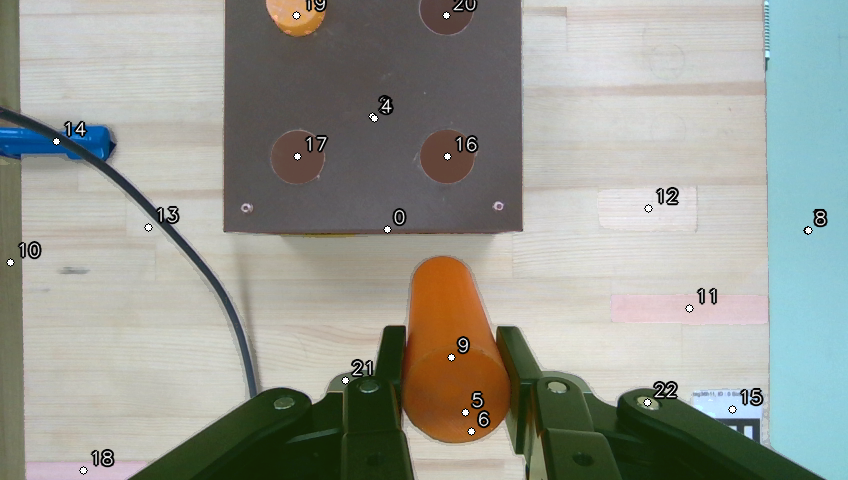
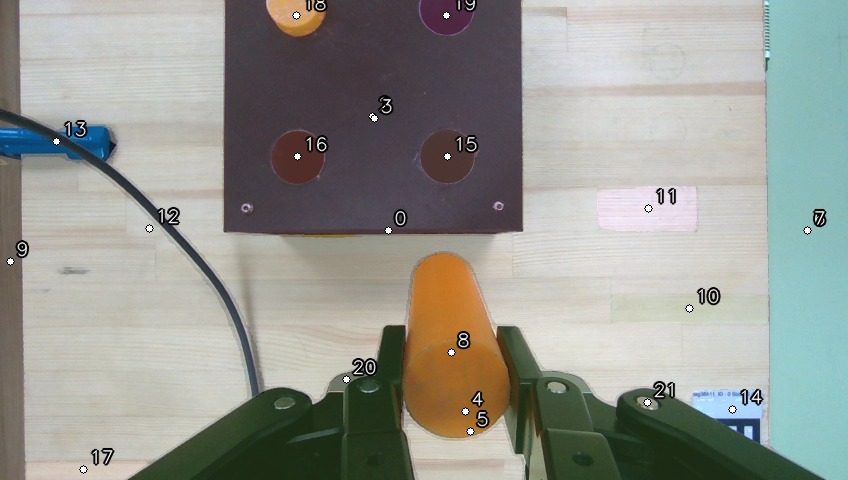
new file:   high_accuracy.json 	modified:   processed_field_image.png 	modified:   ros2_ws/src/realsense-ros 	new file:   rs_launch.py

diff --git a/rs_launch.py b/rs_launch.py
@@ -1,0 +1,157 @@
+# Copyright (c) 2018 Intel Corporation
+#
+# Licensed under the Apache License, Version 2.0 (the "License");
+# you may not use this file except in compliance with the License.
+# You may obtain a copy of the License at
+#
+#     http://www.apache.org/licenses/LICENSE-2.0
+#
+# Unless required by applicable law or agreed to in writing, software
+# distributed under the License is distributed on an "AS IS" BASIS,
+# WITHOUT WARRANTIES OR CONDITIONS OF ANY KIND, either express or implied.
+# See the License for the specific language governing permissions and
+# limitations under the License.
+
+"""Launch realsense2_camera node."""
+import os
+from launch import LaunchDescription
+from ament_index_python.packages import get_package_share_directory
+import launch_ros.actions
+from launch.actions import DeclareLaunchArgument
+from launch.substitutions import LaunchConfiguration, PythonExpression
+from launch.conditions import IfCondition
+
+
+configurable_parameters = [{'name': 'camera_name',                  'default': 'camera', 'description': 'camera unique name'},
+                           {'name': 'serial_no',                    'default': "''", 'description': 'choose device by serial number'},
+                           {'name': 'usb_port_id',                  'default': "''", 'description': 'choose device by usb port id'},
+                           {'name': 'device_type',                  'default': "''", 'description': 'choose device by type'},
+                           {'name': 'config_file',                  'default': "''", 'description': 'yaml config file'},
+                           {'name': 'enable_pointcloud',            'default': 'true', 'description': 'enable pointcloud'},
+                           {'name': 'unite_imu_method',             'default': "''", 'description': '[copy|linear_interpolation]'},
+                           {'name': 'json_file_path',               'default': "'high_accuracy.json'", 'description': 'allows advanced configuration'},
+                           {'name': 'log_level',                    'default': 'info', 'description': 'debug log level [DEBUG|INFO|WARN|ERROR|FATAL]'},
+                           {'name': 'output',                       'default': 'screen', 'description': 'pipe node output [screen|log]'},
+                           {'name': 'depth_width',                  'default': '-1', 'description': 'depth image width'},
+                           {'name': 'depth_height',                 'default': '-1', 'description': 'depth image height'},
+                           {'name': 'enable_depth',                 'default': 'true', 'description': 'enable depth stream'},
+                           {'name': 'color_width',                  'default': '-1', 'description': 'color image width'},
+                           {'name': 'color_height',                 'default': '-1', 'description': 'color image height'},
+                           {'name': 'enable_color',                 'default': 'true', 'description': 'enable color stream'},
+                           {'name': 'infra_width',                  'default': '848', 'description': 'infra width'},
+                           {'name': 'infra_height',                 'default': '480', 'description': 'infra width'},
+                           {'name': 'enable_infra1',                'default': 'false', 'description': 'enable infra1 stream'},
+                           {'name': 'enable_infra2',                'default': 'false', 'description': 'enable infra2 stream'},
+                           {'name': 'infra_rgb',                    'default': 'false', 'description': 'enable infra2 stream'},
+                           {'name': 'fisheye_width',                'default': '-1', 'description': 'fisheye width'},
+                           {'name': 'fisheye_height',               'default': '-1', 'description': 'fisheye width'},
+                           {'name': 'enable_fisheye1',              'default': 'false', 'description': 'enable fisheye1 stream'},
+                           {'name': 'enable_fisheye2',              'default': 'false', 'description': 'enable fisheye2 stream'},
+                           {'name': 'confidence_width',             'default': '-1', 'description': 'depth image width'},
+                           {'name': 'confidence_height',            'default': '-1', 'description': 'depth image height'},
+                           {'name': 'enable_confidence',            'default': 'true', 'description': 'enable depth stream'},
+                           {'name': 'fisheye_fps',                  'default': '-1.', 'description': ''},
+                           {'name': 'depth_fps',                    'default': '30.', 'description': ''},
+                           {'name': 'confidence_fps',               'default': '-1.', 'description': ''},
+                           {'name': 'infra_fps',                    'default': '-1.', 'description': ''},
+                           {'name': 'color_fps',                    'default': '30.', 'description': ''},
+                           {'name': 'gyro_fps',                     'default': '-1.', 'description': ''},
+                           {'name': 'accel_fps',                    'default': '-1.', 'description': ''},
+                           {'name': 'color_qos',                    'default': 'SYSTEM_DEFAULT', 'description': 'QoS profile name'},
+                           {'name': 'confidence_qos',               'default': 'SYSTEM_DEFAULT', 'description': 'QoS profile name'},
+                           {'name': 'depth_qos',                    'default': 'SYSTEM_DEFAULT', 'description': 'QoS profile name'},
+                           {'name': 'fisheye_qos',                  'default': 'SYSTEM_DEFAULT', 'description': 'QoS profile name'},
+                           {'name': 'infra_qos',                    'default': 'SYSTEM_DEFAULT', 'description': 'QoS profile name'},
+                           {'name': 'pointcloud_qos',               'default': 'SYSTEM_DEFAULT', 'description': 'QoS profile name'},
+                           {'name': 'enable_gyro',                  'default': 'false', 'description': ''},
+                           {'name': 'enable_accel',                 'default': 'false', 'description': ''},
+                           {'name': 'pointcloud_texture_stream',    'default': 'RS2_STREAM_COLOR', 'description': 'testure stream for pointcloud'},
+                           {'name': 'pointcloud_texture_index',     'default': '0', 'description': 'testure stream index for pointcloud'},
+                           {'name': 'enable_sync',                  'default': 'true', 'description': ''},
+                           {'name': 'align_depth',                  'default': 'true', 'description': ''},
+                           {'name': 'filters',                      'default': "''", 'description': ''},
+                           {'name': 'clip_distance',                'default': '-2.', 'description': ''},
+                           {'name': 'linear_accel_cov',             'default': '0.01', 'description': ''},
+                           {'name': 'initial_reset',                'default': 'false', 'description': ''},
+                           {'name': 'allow_no_texture_points',      'default': 'false', 'description': ''},
+                           {'name': 'ordered_pc',                   'default': 'false', 'description': ''},
+                           {'name': 'calib_odom_file',              'default': "''", 'description': "''"},
+                           {'name': 'topic_odom_in',                'default': "''", 'description': 'topic for T265 wheel odometry'},
+                           {'name': 'tf_publish_rate',              'default': '0.0', 'description': 'Rate of publishing static_tf'},
+                           {'name': 'diagnostics_period',           'default': '0.0', 'description': 'Rate of publishing diagnostics. 0=Disabled'},
+                           {'name': 'rosbag_filename',              'default': "''", 'description': 'A realsense bagfile to run from as a device'},
+                           {'name': 'temporal.holes_fill',          'default': '0', 'description': 'Persistency mode'},
+                           {'name': 'stereo_module.exposure.1',     'default': '7500', 'description': 'Initial value for hdr_merge filter'},
+                           {'name': 'stereo_module.gain.1',         'default': '16', 'description': 'Initial value for hdr_merge filter'},
+                           {'name': 'stereo_module.exposure.2',     'default': '1', 'description': 'Initial value for hdr_merge filter'},
+                           {'name': 'stereo_module.gain.2',         'default': '16', 'description': 'Initial value for hdr_merge filter'},
+                           {'name': 'wait_for_device_timeout',      'default': '-1.', 'description': 'Timeout for waiting for device to connect (Seconds)'},
+                           {'name': 'reconnect_timeout',            'default': '6.', 'description': 'Timeout(seconds) between consequtive reconnection attempts'},
+                          ]
+
+def declare_configurable_parameters(parameters):
+    return [DeclareLaunchArgument(param['name'], default_value=param['default'], description=param['description']) for param in parameters]
+
+def set_configurable_parameters(parameters):
+    return dict([(param['name'], LaunchConfiguration(param['name'])) for param in parameters])
+
+def generate_launch_description():
+    log_level = 'info'
+    if (os.getenv('ROS_DISTRO') == "dashing") or (os.getenv('ROS_DISTRO') == "eloquent"):
+        return LaunchDescription(declare_configurable_parameters(configurable_parameters) + [
+            # Realsense
+            launch_ros.actions.Node(
+                condition=IfCondition(PythonExpression([LaunchConfiguration('config_file'), " == ''"])),
+                package='realsense2_camera',
+                node_namespace=LaunchConfiguration("camera_name"),
+                node_name=LaunchConfiguration("camera_name"),
+                node_executable='realsense2_camera_node',
+                prefix=['stdbuf -o L'],
+                parameters=[set_configurable_parameters(configurable_parameters)
+                            ],
+                output='screen',
+                arguments=['--ros-args', '--log-level', LaunchConfiguration('log_level')],
+                ),
+            launch_ros.actions.Node(
+                condition=IfCondition(PythonExpression([LaunchConfiguration('config_file'), " != ''"])),
+                package='realsense2_camera',
+                node_namespace=LaunchConfiguration("camera_name"),
+                node_name=LaunchConfiguration("camera_name"),
+                node_executable='realsense2_camera_node',
+                prefix=['stdbuf -o L'],
+                parameters=[set_configurable_parameters(configurable_parameters)
+                            , PythonExpression([LaunchConfiguration("config_file")])
+                            ],
+                output='screen',
+                arguments=['--ros-args', '--log-level', LaunchConfiguration('log_level')],
+                ),
+            ])
+    else:
+        return LaunchDescription(declare_configurable_parameters(configurable_parameters) + [
+            # Realsense
+            launch_ros.actions.Node(
+                condition=IfCondition(PythonExpression([LaunchConfiguration('config_file'), " == ''"])),
+                package='realsense2_camera',
+                namespace=LaunchConfiguration("camera_name"),
+                name=LaunchConfiguration("camera_name"),
+                executable='realsense2_camera_node',
+                parameters=[set_configurable_parameters(configurable_parameters)
+                            ],
+                output='screen',
+                arguments=['--ros-args', '--log-level', LaunchConfiguration('log_level')],
+                emulate_tty=True,
+                ),
+            launch_ros.actions.Node(
+                condition=IfCondition(PythonExpression([LaunchConfiguration('config_file'), " != ''"])),
+                package='realsense2_camera',
+                namespace=LaunchConfiguration("camera_name"),
+                name=LaunchConfiguration("camera_name"),
+                executable='realsense2_camera_node',
+                parameters=[set_configurable_parameters(configurable_parameters)
+                            , PythonExpression([LaunchConfiguration("config_file")])
+                            ],
+                output='screen',
+                arguments=['--ros-args', '--log-level', LaunchConfiguration('log_level')],
+                emulate_tty=True,
+                ),
+        ])
